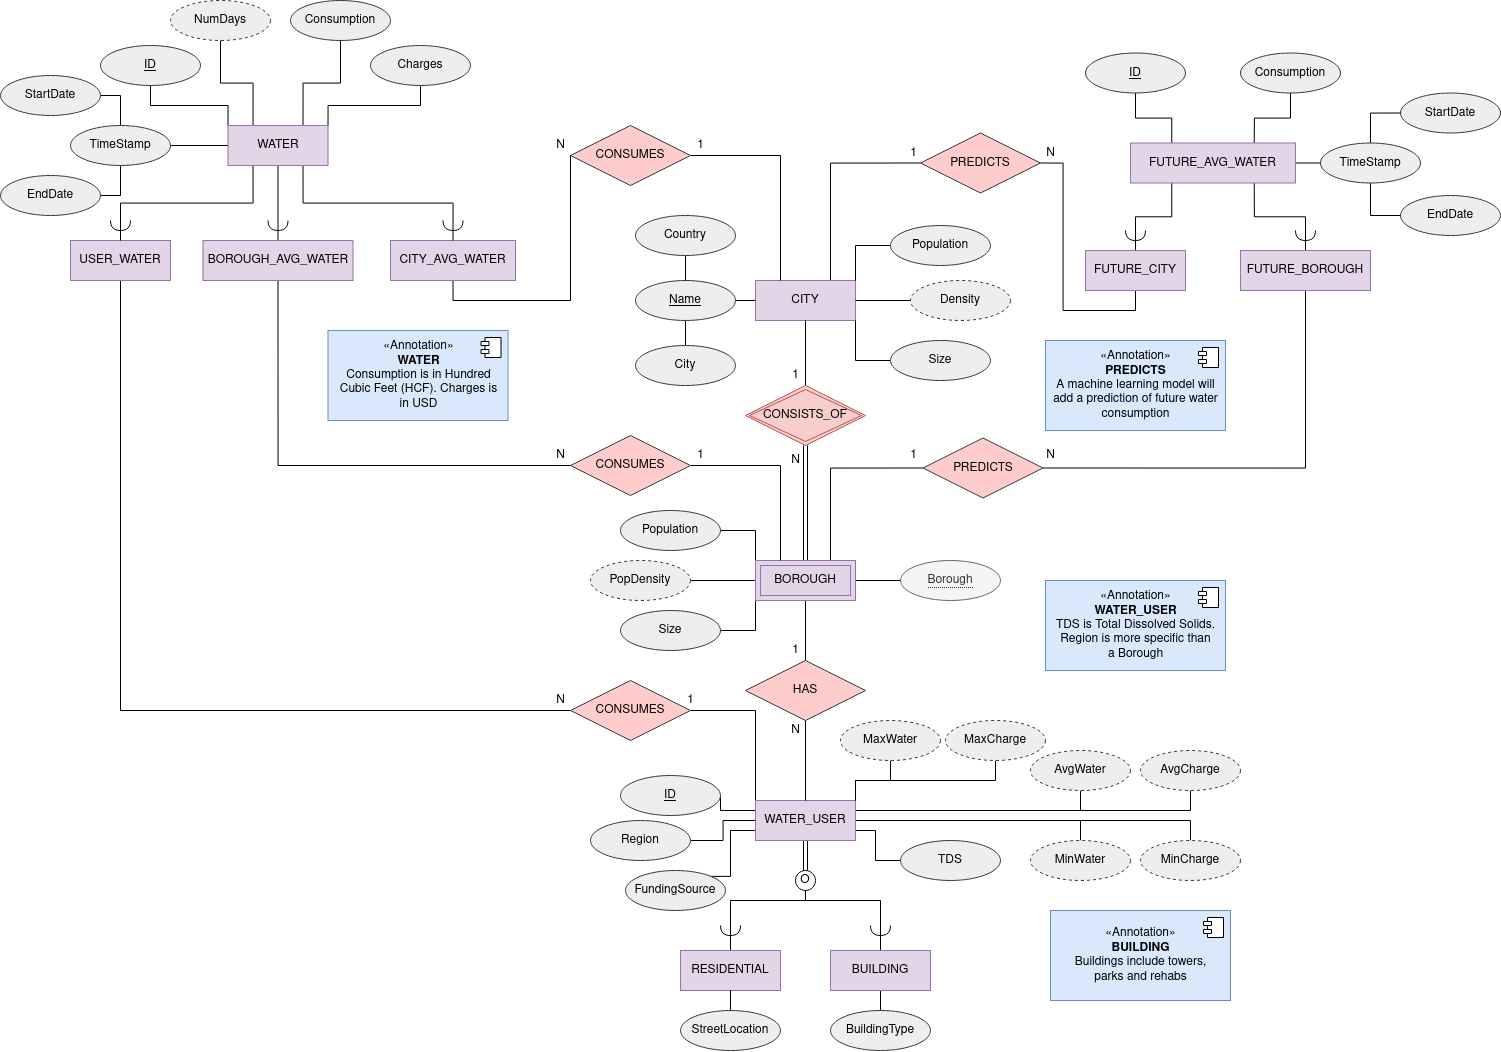
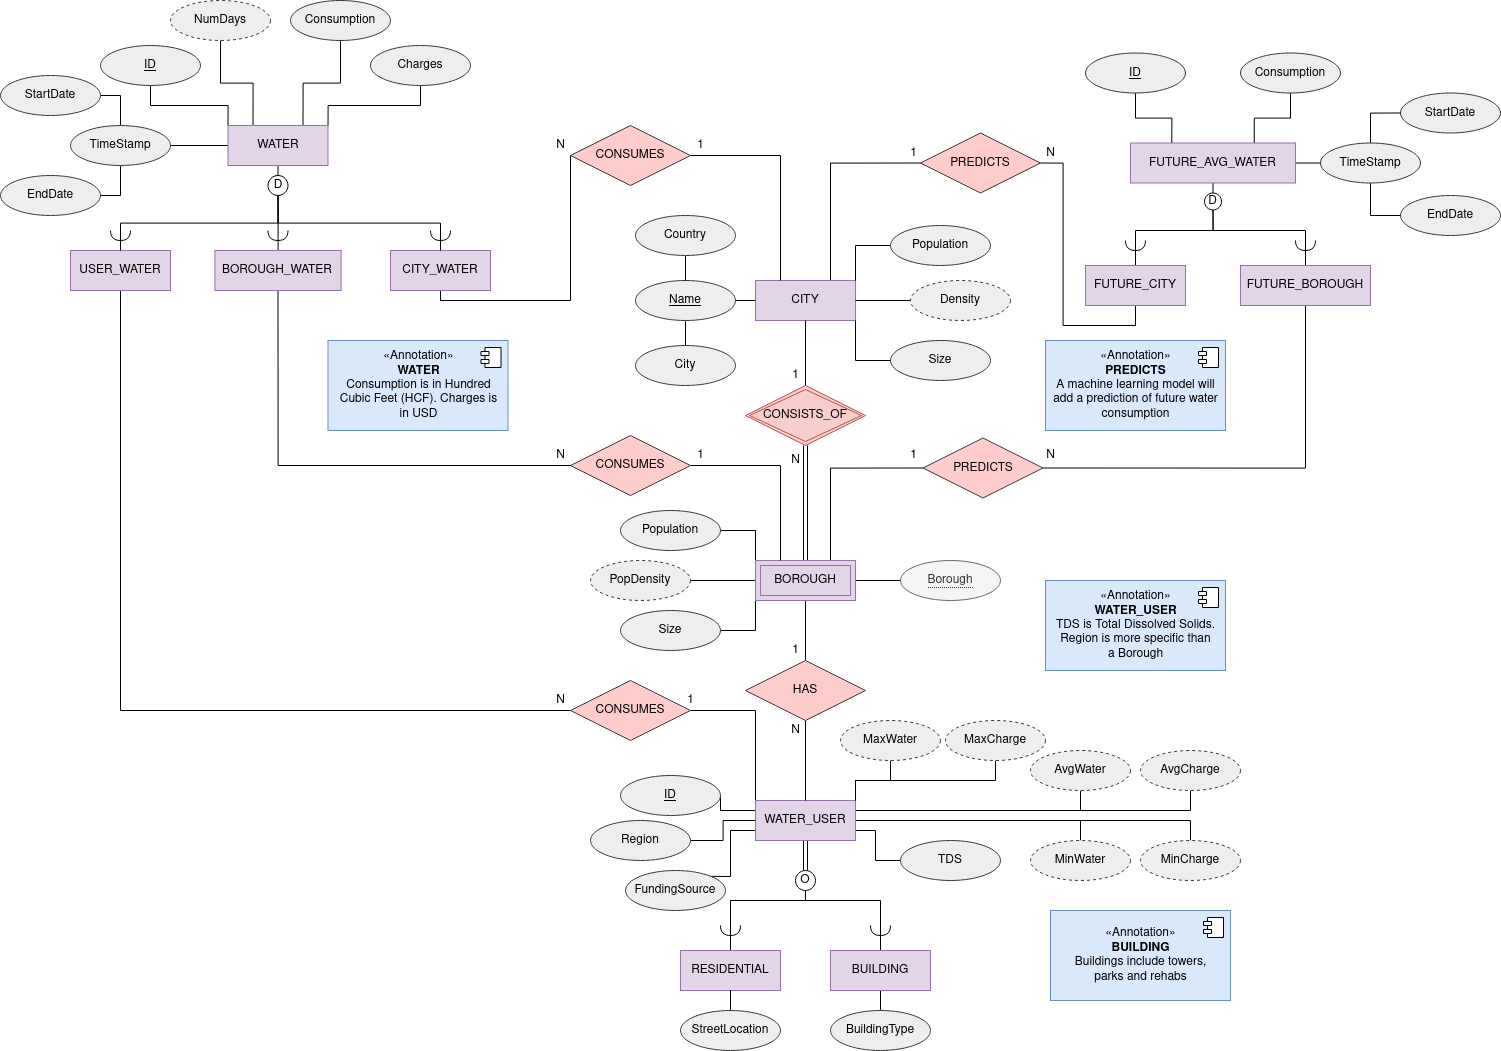
Update UML diagram and schema for minor errors

diff --git a/Design/src/schema.tex b/Design/src/schema.tex
@@ -23,7 +23,7 @@
 
 % Title content
 \title{Relational Mapping of EER Diagram}
-% \author{authorname}
+% \author{}
 \date{March 17, 2021}
 
 \begin{document}
@@ -36,17 +36,17 @@
 City[\underline{City, Country}, Population, Size] \\
 Borough[\underline{Borough, City, Country}, Population, Size] \\
 WaterUser[\underline{ID}, Borough, Region, FundingSource, TDS, StreetLocation, BuildingType] \\
-CityAvgWater[\underline{ID}, City, Consumption, Charges] \\
-BoroughAvgWater[\underline{ID}, Borough, StartDate, EndDate, Consumption, Charges] \\
+CityWater[\underline{ID}, City, StartDate, EndDate, Consumption, Charges] \\
+BoroughWater[\underline{ID}, Borough, StartDate, EndDate, Consumption, Charges] \\
 UserWater[\underline{ID}, User, StartDate, EndDate, Consumption, Charges] \\
 FutureCity[\underline{ID}, City, StartDate, EndDate, Consumption] \\
 FutureBorough[\underline{ID}, Borough, StartDate, EndDate, Consumption]
 \\~\\
 \textbf{Foreign Keys:} \\
-Borough.City references City.\{City, Country\} \\
+Borough.{City, Country} references City.\{City, Country\} \\
 WaterUser.Borough references Borough.\{Borough, City, Country\} \\
-CityAvgWater.City references City.\{City, Country\} \\
-BoroughAvgWater.Borough references Borough.\{Borough, City, Country\} \\
+CityWater.City references City.\{City, Country\} \\
+BoroughWater.Borough references Borough.\{Borough, City, Country\} \\
 UserWater.User references WaterUser.ID \\
 FutureCity.City references City.\{City, Country\} \\
 FutureBorough.Borough references Borough.\{Borough, City, Country\} \\
